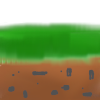
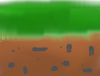
Better (a lil bit) grass

diff --git a/include/defs.hpp b/include/defs.hpp
@@ -4,7 +4,7 @@
 #define LEFT_WALL 0
 #define RIGHT_WALL 2000
 #define SLOT_WIDTH 200
-#define FLOOR 100
+#define FLOOR 75
 #define SPEED 2
 
 // Colors
